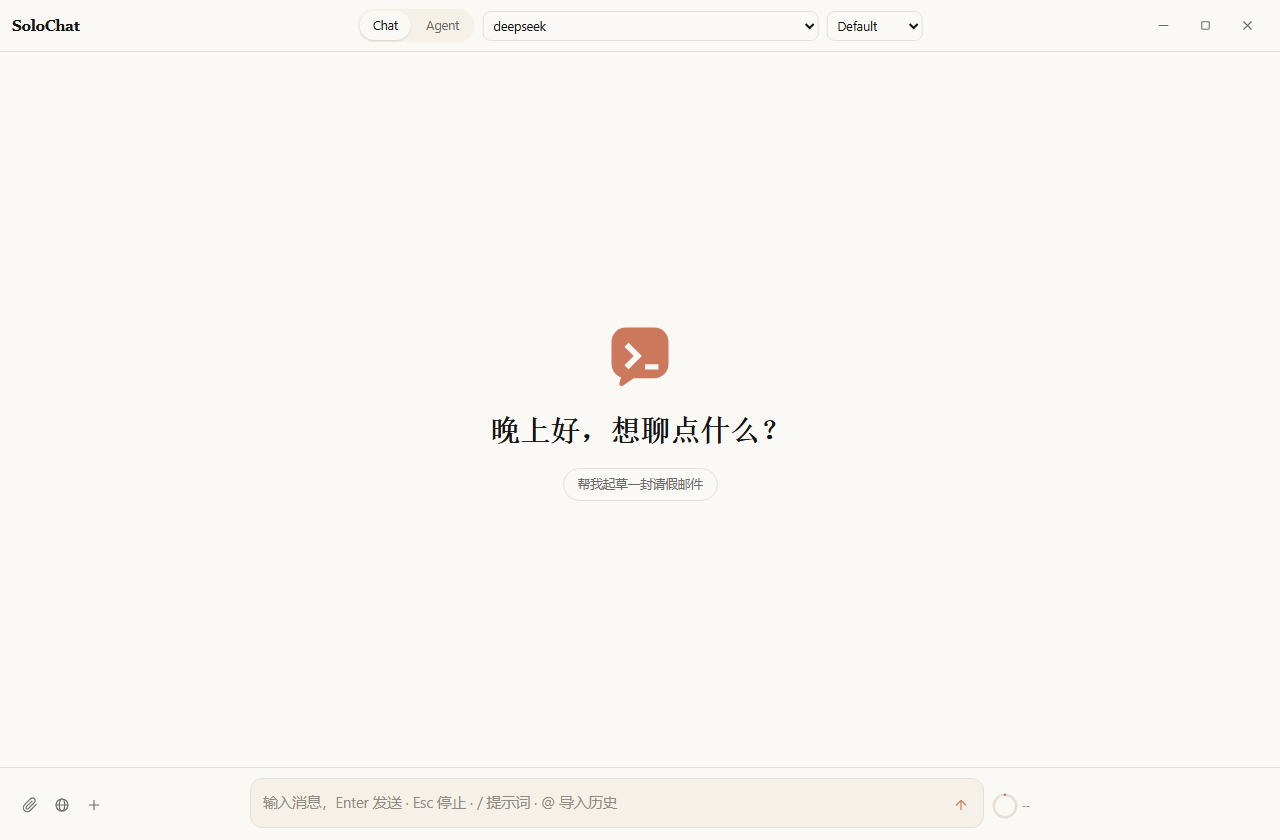
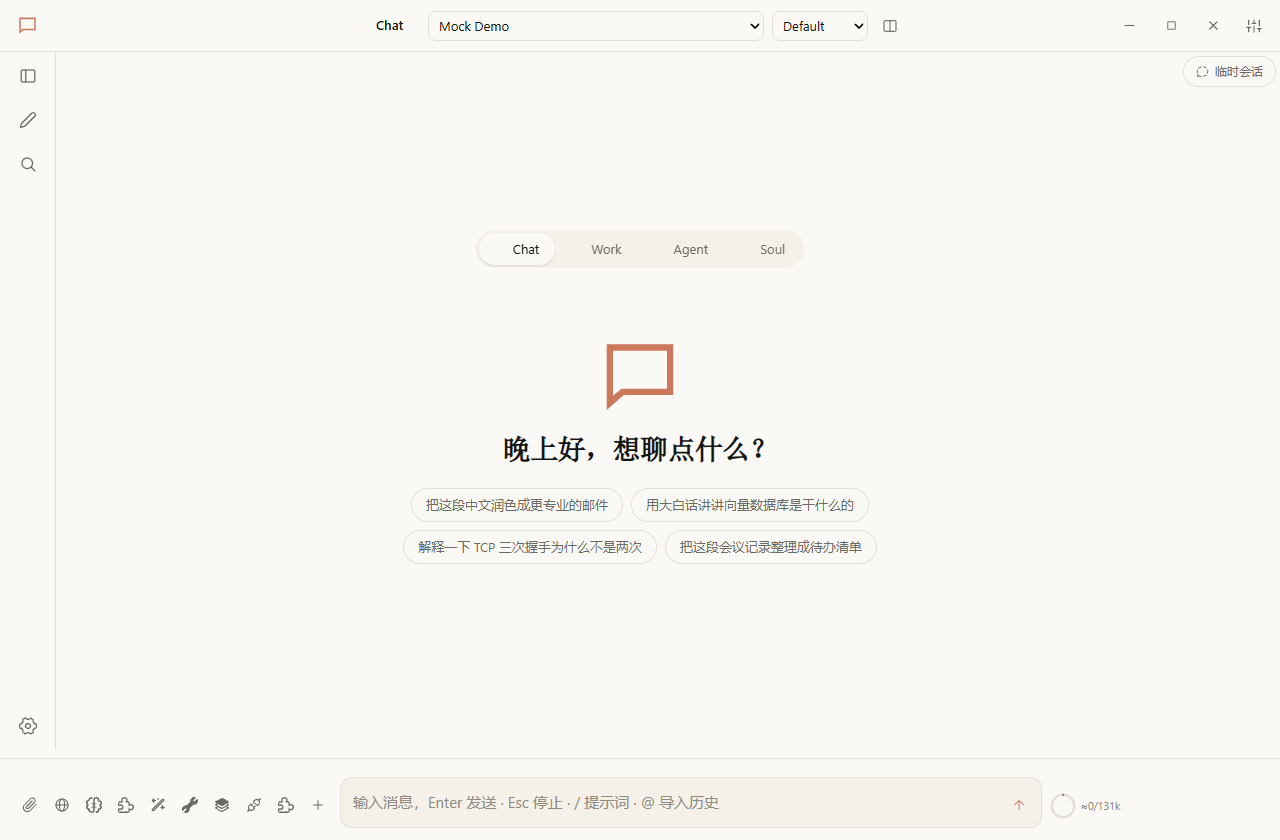
docs: refresh README screenshot for v0.4.5

diff --git a/README.md b/README.md
@@ -6,7 +6,7 @@
 
 主应用仓库保持极简；扩展包与 Python 运行时放在同级目录 **`../extensions/`**（独立 Git 仓库），发布前用 `node tools/sync-extensions.mjs` 同步到 `dist/plugins/`。
 
-![首屏](screenshots/home.png)
+![首屏（演示模式）](screenshots/home.png)
 
 ## 四种模式
 
